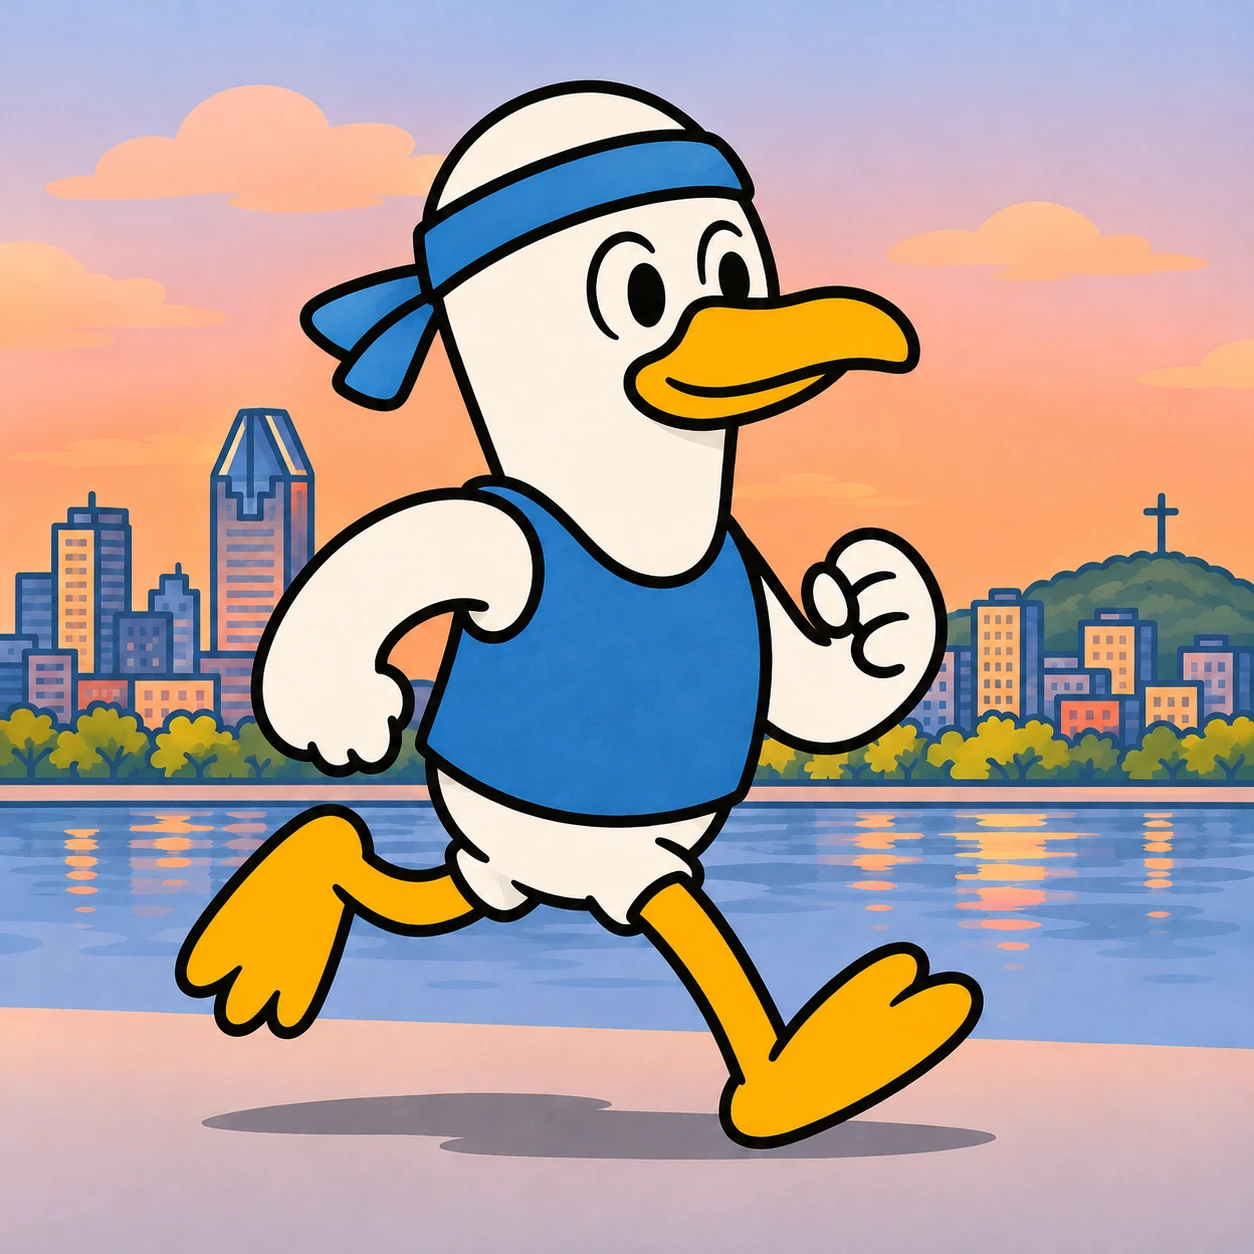
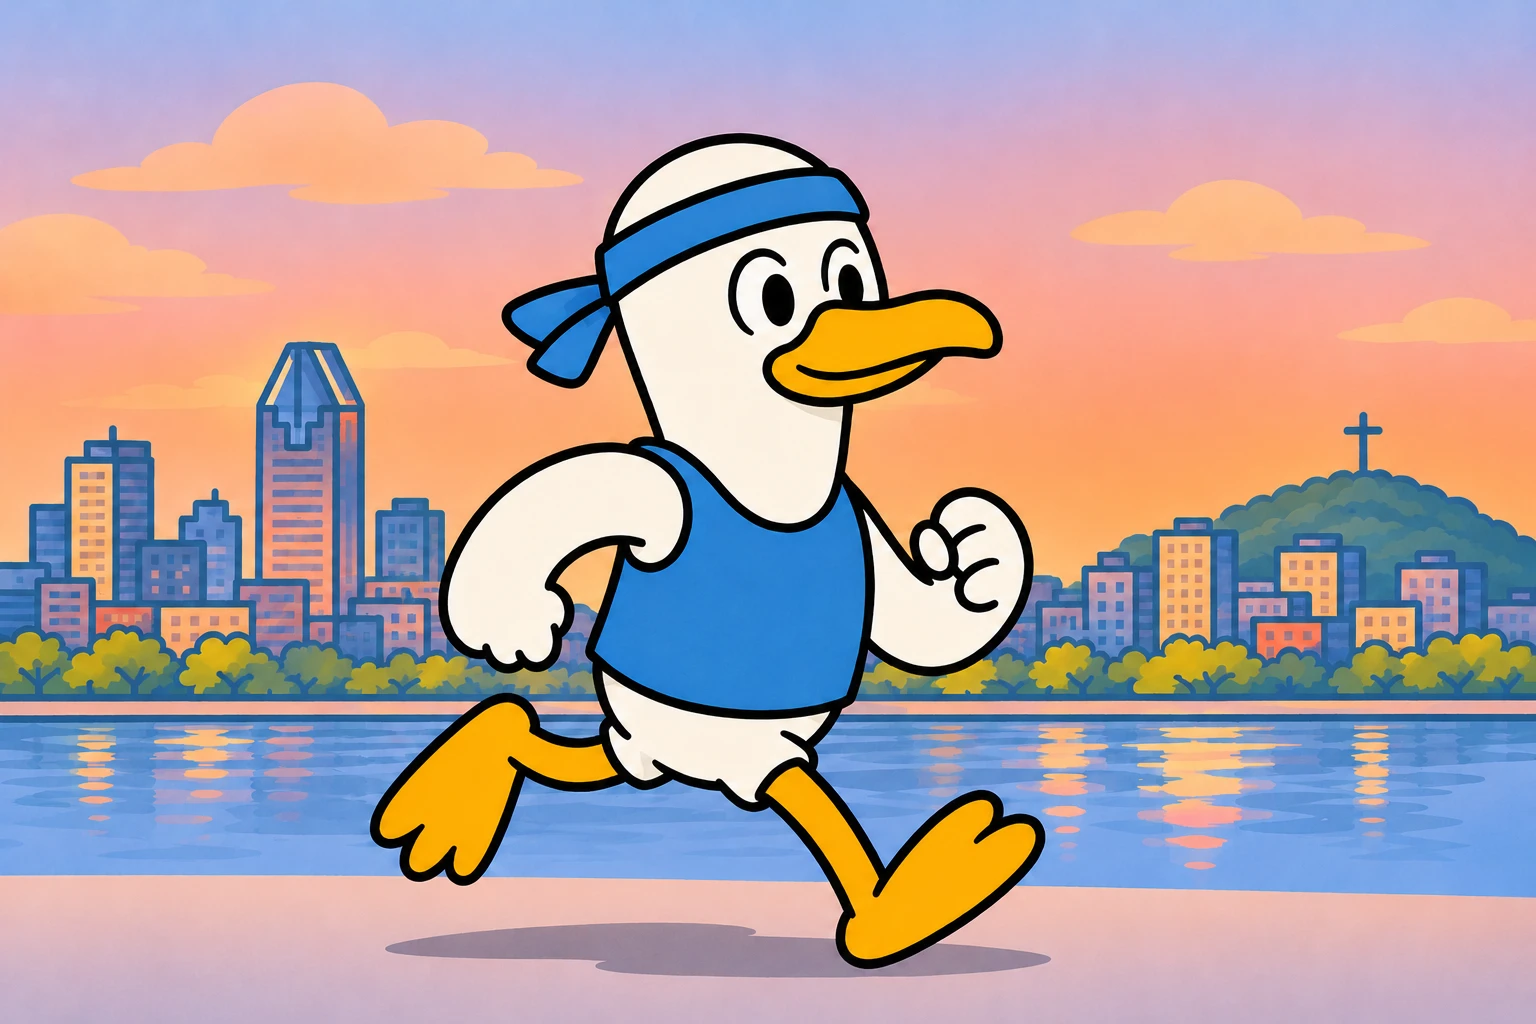
Home screen: switch to the wide riverside picture
A 3:2 picture fits a phone better than the square one: it runs the full
width on every phone, about 260px tall at 390px wide, so the three cards
fit under it even with the browser bars showing, with no shrinking and
no faded side edges. On taller screens it grows towards a square by
cropping the sides (centred on the duck, who sits between 24% and 68%
across). The duck's cut-out now carries his own shadow from the picture,
so it crops with him.

diff --git a/src/styles.css b/src/styles.css
@@ -551,12 +551,14 @@ button {
 /* The hero runs edge to edge, so the picker drops the side and top padding
    and gives it back to the cards and footer. */
 .picker {
-  /* Side of the square riverside scene: the full width when there's room,
-     smaller on short screens so all three cards fit below it. 412px is
-     roughly the sky band plus the three cards; svh (toolbars shown) keeps it
-     from jumping while the browser bars slide away. */
-  --scene: min(100vw, 34rem, max(220px, 100vh - 412px));
-  --scene: min(100vw, 34rem, max(220px, 100svh - 412px));
+  /* The riverside scene (a 3:2 picture) always runs the full width. Its
+     height takes what the screen can spare: 412px is roughly the sky band
+     plus the three cards. From the picture's own 3:2 on short screens up to
+     a square on tall ones (cropping the sides, never the duck). svh (browser
+     bars shown) keeps it from jumping while the bars slide away. */
+  --scene-w: min(100vw, 34rem);
+  --scene-h: min(var(--scene-w), max(var(--scene-w) * 2 / 3, 100vh - 412px));
+  --scene-h: min(var(--scene-w), max(var(--scene-w) * 2 / 3, 100svh - 412px));
   padding-top: 0;
   padding-right: 0;
   padding-left: 0;
@@ -582,7 +584,7 @@ button {
 
 .picker__hero {
   /* The picture's own sky colour, so the band and the image meet without a seam. */
-  --picker-sky: #a7bbe7;
+  --picker-sky: #9db5ea;
   display: flex;
   flex-direction: column;
 }
@@ -656,62 +658,33 @@ button {
    so his feet stay solid over the fade. */
 .picker__scene {
   position: relative;
-  width: var(--scene);
+  width: var(--scene-w);
+  height: var(--scene-h);
   /* Tuck under the sky band so no hairline shows between them. */
   margin: -2px auto 0;
-  aspect-ratio: 1;
 }
 
 /* The bottom of the picture is already faded out: start the cards over it. */
 .picker__main {
-  margin-top: calc(var(--scene) * -0.07);
+  margin-top: calc(var(--scene-h) * -0.06);
 }
 
-/* Short screens (a phone with the browser bars showing, a laptop): the scene
-   is narrower than the screen, so its sides fade too, into the sky colour at
-   the top and the paper lower down, instead of ending in hard edges. */
-@media (max-height: 820px) {
-  /* Sky down to about the skyline, then paper by the river. */
-  .picker__hero {
-    background: linear-gradient(
-      var(--picker-sky) calc(100% - var(--scene) * 0.5),
-      transparent calc(100% - var(--scene) * 0.22)
-    );
-  }
-
-  .picker__scene-bg {
-    -webkit-mask-image:
-      linear-gradient(#000 64%, transparent 94%),
-      linear-gradient(90deg, transparent, #000 14%, #000 86%, transparent);
-    -webkit-mask-composite: source-in;
-    mask-image:
-      linear-gradient(#000 64%, transparent 94%),
-      linear-gradient(90deg, transparent, #000 14%, #000 86%, transparent);
-    mask-composite: intersect;
-  }
-}
-
+/* Both layers crop the same way, so the duck stays exactly on his spot (and
+   his shadow, which is part of his layer). Centred on the duck, not the
+   picture. */
 .picker__scene img {
   position: absolute;
   inset: 0;
   display: block;
   width: 100%;
   height: 100%;
+  object-fit: cover;
+  object-position: 46% 50%;
 }
 
 .picker__scene-bg {
-  -webkit-mask-image: linear-gradient(#000 64%, transparent 94%);
-  mask-image: linear-gradient(#000 64%, transparent 94%);
-}
-
-.picker__shadow {
-  position: absolute;
-  top: 88.5%;
-  left: 19%;
-  width: 61%;
-  height: 4.5%;
-  border-radius: 50%;
-  background: radial-gradient(closest-side, rgb(44 44 42 / 0.28), transparent);
+  -webkit-mask-image: linear-gradient(#000 72%, transparent 97%);
+  mask-image: linear-gradient(#000 72%, transparent 97%);
 }
 
 /* Compact cards with one-line help, so the three fit under the scene. */

diff --git a/src/components/ModePicker.tsx b/src/components/ModePicker.tsx
@@ -30,9 +30,8 @@ export function ModePicker({ onPick }: Props) {
           <p className="picker__ribbon">Your Stooopid Co-Pacer</p>
         </div>
         <div className="picker__scene" aria-hidden="true">
-          <img className="picker__scene-bg" src={scene} alt="" width={720} height={720} />
-          <span className="picker__shadow" />
-          <img className="picker__scene-duck" src={sceneDuck} alt="" width={720} height={720} />
+          <img className="picker__scene-bg" src={scene} alt="" width={1080} height={720} />
+          <img className="picker__scene-duck" src={sceneDuck} alt="" width={1080} height={720} />
         </div>
       </header>
 
